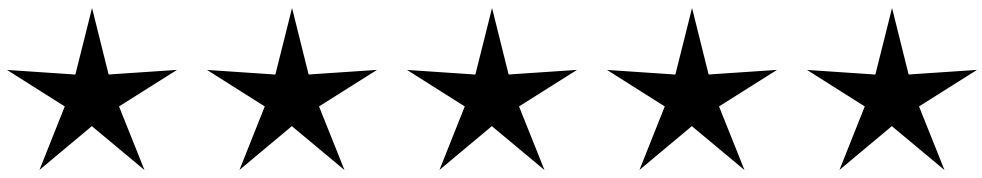
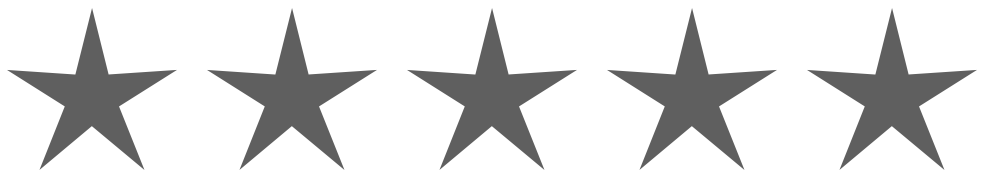
animated graph, yay

Changed region(s): [[0.2138, 0.0843, 0.7943, 0.927], [0.0, 0.0843, 0.1833, 0.927], [0.8248, 0.0843, 1.0, 0.927]]

diff --git a/app/assets/stylesheets/because.css.scss b/app/assets/stylesheets/because.css.scss
@@ -1182,15 +1182,17 @@
 		.relationships {
 
 			.stars {
-				text-align: center;
-				width: 15em;
-				margin-bottom: 1em;
+				width: 250px;
+				height: 75px;
+				background: url('/assets/business_stars.png') no-repeat;
+				background-size: contain;
 				margin-left: auto;
 				margin-right: auto;
+			}
 
-				img {
-					opacity: .5;
-				}
+			.stars:hover {
+				background: url('/assets/business_stars_hover.png') no-repeat;
+				background-size: 100%;
 			}
 			
 			.heading {
@@ -1228,7 +1230,7 @@
 		max-width: 46%;
 		float: right;
 
-		.client {
+		.growth {
 			margin-left:auto;
 			margin-right:auto;
 
@@ -1237,14 +1239,92 @@
 				font-weight: 300;
 				font-size: 1.1em;
 				text-align: center;
+				display: inline-block;
 				padding-top: 1em;
 				padding-bottom: 1em;
+				width: 100%;
 				color: #666;
 			}
 
-			.aware {
-
+			.graph_desc {
+				width: 45%;
+				margin: 0;
+				display: inline-block;
 			}
+
+			.growth_graph {
+				width: 45%;
+				height: 150px;
+				border-left: 4px solid #111;
+				border-bottom: 4px solid #111;
+				display: inline-block;
+
+				.bar {
+					background: #63b7db;
+					width: 25%;
+					margin: 0 0 0 4%;
+					padding: 0;
+					display: inline-block;
+				}
+
+				.placeholder {
+					width: 1px;
+					height: 100%;
+					position: relative;
+					left: -10px;
+					display: inline-block;
+				}
+
+				.bar_one {
+					margin-left: -10px;
+					height: 0%;
+				}
+
+				.bar_two {
+					height: 0%;
+				}
+
+				.bar_three {
+					height: 0%;
+				}
+			}
+		}
+
+		.marketing {
+			width: 100%;
+			text-align: center;
+			display: inline-block;
+
+			.sydney {
+				background: url('/assets/marketing_sydney_gray.jpg') no-repeat;
+				background-size: contain;
+				display: inline-block;
+				height: 320px;
+				width: 45%;
+				margin-right: 3%;
+			}
+
+			.africa {
+				background: url('/assets/marketing_africa_gray.jpg') no-repeat;
+				background-size: contain;
+				display: inline-block;
+				height: 320px;
+				width: 45%;
+			}
+
+			.sydney:hover {
+				background: url('/assets/marketing_sydney.jpg') no-repeat;
+				background-size: contain;
+			}
+
+			.africa:hover {
+				background: url('/assets/marketing_africa.jpg') no-repeat;
+				background-size: contain;
+			}
+
+
+
+
 		}
 	}
 	
